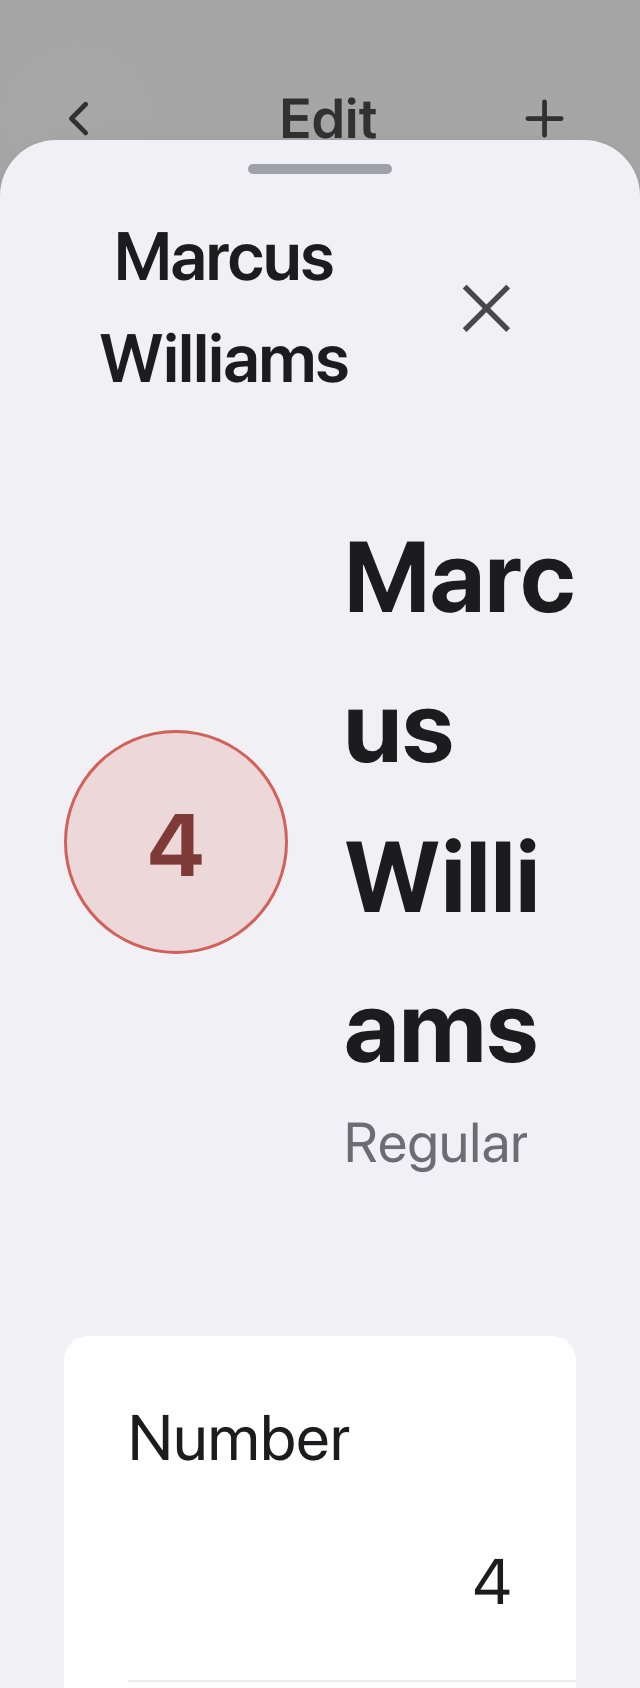
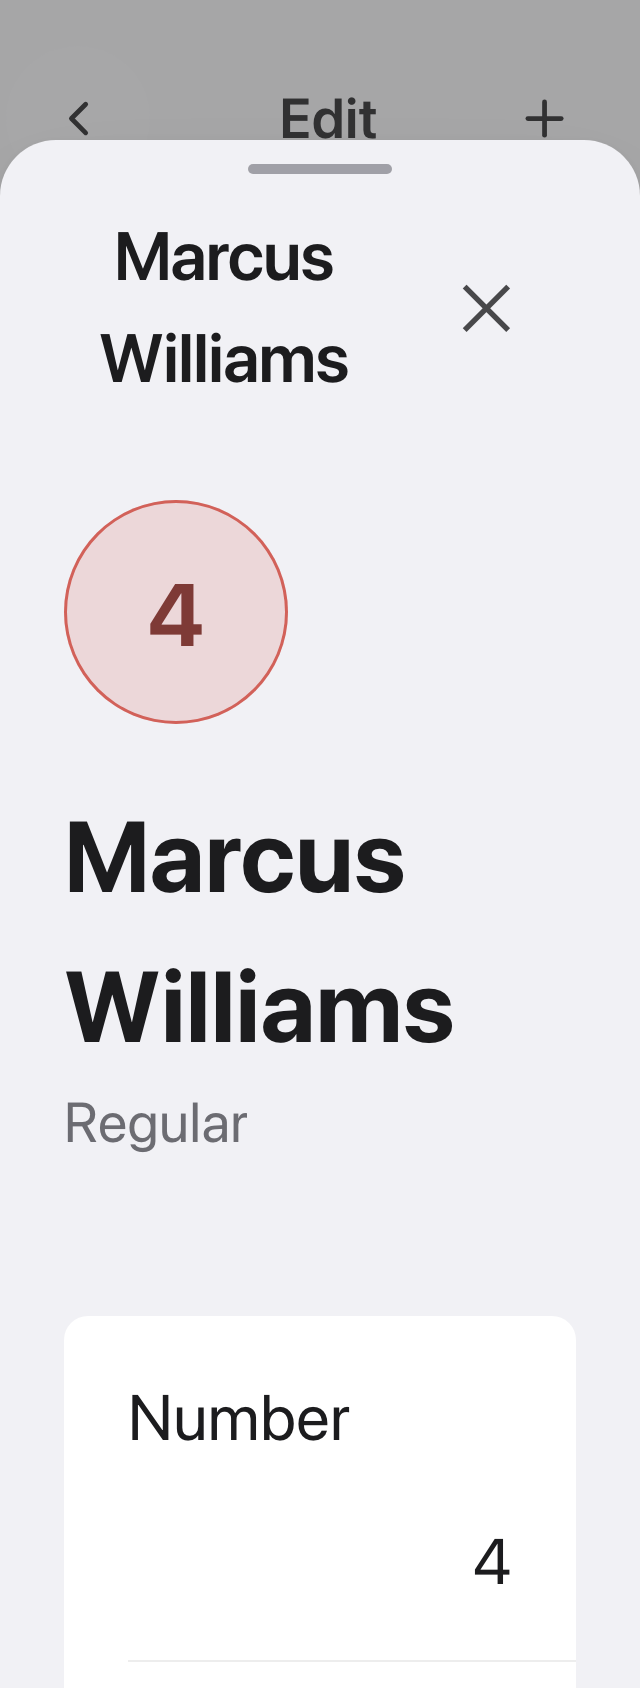
Let the player's name drop below the badge when the badge crowds it
At 320px with a 32px root the identity badge is 112px of a 320px
screen, which left `.pident-name` about a third of the row -- narrow
enough that `overflow-wrap: break-word` cut an ordinary first name in
half: "Marc / us / Willi / ams" on four lines for two words.

Nothing in the suite could see it. The text still fit inside its own
box, so there was no overflow to report and no sideways pan for
`identLongNameOk` to catch; `prowFieldsOk` measures the field labels,
not the identity block. It took opening the screenshot.

`flex-wrap: wrap` on `.pident` plus `flex: 1 1 12ch` on `.pident-t`:
the basis is the width the name asks for, so when the badge cannot
leave that much, the text side drops onto its own flex line and gets
the whole row. `min-width: 0` stays -- `min-content` would have made
the widest word the floor and brought back the sideways pan that the
`min-width: 0` was there to prevent in the first place. 12ch is the
shortest basis that still keeps badge and name side by side at
390px/16px, and every other captured state came back byte-identical.

The guard counts line boxes against words rather than comparing
widths: a Range around a word that has already been broken reports the
union of its two line boxes, which is never wider than the box that
broke it, so a width comparison reads clean while the name is in
pieces. Run red first: 4 line(s) for 2 word(s).

npm test 1190 pass, smoke 40/40 (payload 1120.2 KB of 1125.5, 40
[…]

diff --git a/app/app.css b/app/app.css
@@ -2731,13 +2731,24 @@ dialog.bsheet.closing { transform: translateY(100%); --scrim: 0; }
    settled both onto `--fs-sentence` and `--fs-secondary` for this sheet.
    `min-width: 0` and `overflow-wrap` on the text side are the same long-name
    fix `.rrow .prow-t` and `.sn-nm` already use -- a long name wraps here
-   instead of pushing the block past the sheet's own edge at 320px/32px. */
-.pident { --c: var(--muted); display: flex; align-items: center; gap: .875rem; padding: .75rem 1rem 1.25rem; }
+   instead of pushing the block past the sheet's own edge at 320px/32px.
+
+   The badge does not shrink, so at 320px/32px it took 112px of the row and
+   left the name about a third of the screen -- enough to cut an ORDINARY
+   first name in half ("Marc / us / Willi / ams"). `flex-wrap` plus a
+   flex-basis in `ch` is what fixes it: the basis is the width the name asks
+   for, so when the badge cannot leave that much the whole text side drops
+   onto its own line and gets the full row instead. `min-width: 0` stays, so
+   a name too long for even that line still wraps rather than panning the
+   sheet -- the `min-content` spelling would have made the widest word the
+   floor and brought the sideways pan back. 12ch is the shortest basis that
+   still keeps badge and name side by side at 390px/16px. */
+.pident { --c: var(--muted); display: flex; flex-wrap: wrap; align-items: center; gap: .875rem; padding: .75rem 1rem 1.25rem; }
 .pident-av { flex: none; width: 3.5rem; height: 3.5rem; border-radius: 50%;
   display: grid; place-items: center; font-size: var(--fs-title); font-weight: 700;
   background: color-mix(in srgb, var(--c) 18%, transparent); color: color-mix(in srgb, var(--c) var(--av-ink), #000);
   box-shadow: inset 0 0 0 var(--av-ring) var(--c); font-variant-numeric: tabular-nums; }
-.pident-t { min-width: 0; }
+.pident-t { flex: 1 1 12ch; min-width: 0; }
 .pident-name { font-size: var(--fs-sentence); font-weight: 700; overflow-wrap: break-word; }
 .pident-level { font-size: var(--fs-secondary); color: var(--muted); }
 

diff --git a/app/sw.js b/app/sw.js
@@ -19,7 +19,7 @@
    whenever a precached file changes -- `npm test` names it in the SHELL
    failure and `scripts/check-sw-version.mjs` enforces it across commits --
    but a forgotten bump is now a stale LABEL, not a stale SHELL. */
-const VERSION = '308';
+const VERSION = '309';
 
 /* Fingerprint of every file PRECACHE names, and the half of the cache name
    that actually busts it. `test/sw.test.js` recomputes it from the bytes on
@@ -29,7 +29,7 @@ const VERSION = '308';
    `activate` below deletes the old one. It lives HERE rather than in the test
    so that the edit updating it lands on the line below VERSION. Deleting it
    fails the suite too. */
-const SHELL = '8b37f05be3cd';
+const SHELL = '8277addc1925';
 
 const CACHE = `benchcard-v${VERSION}-${SHELL}`;
 
